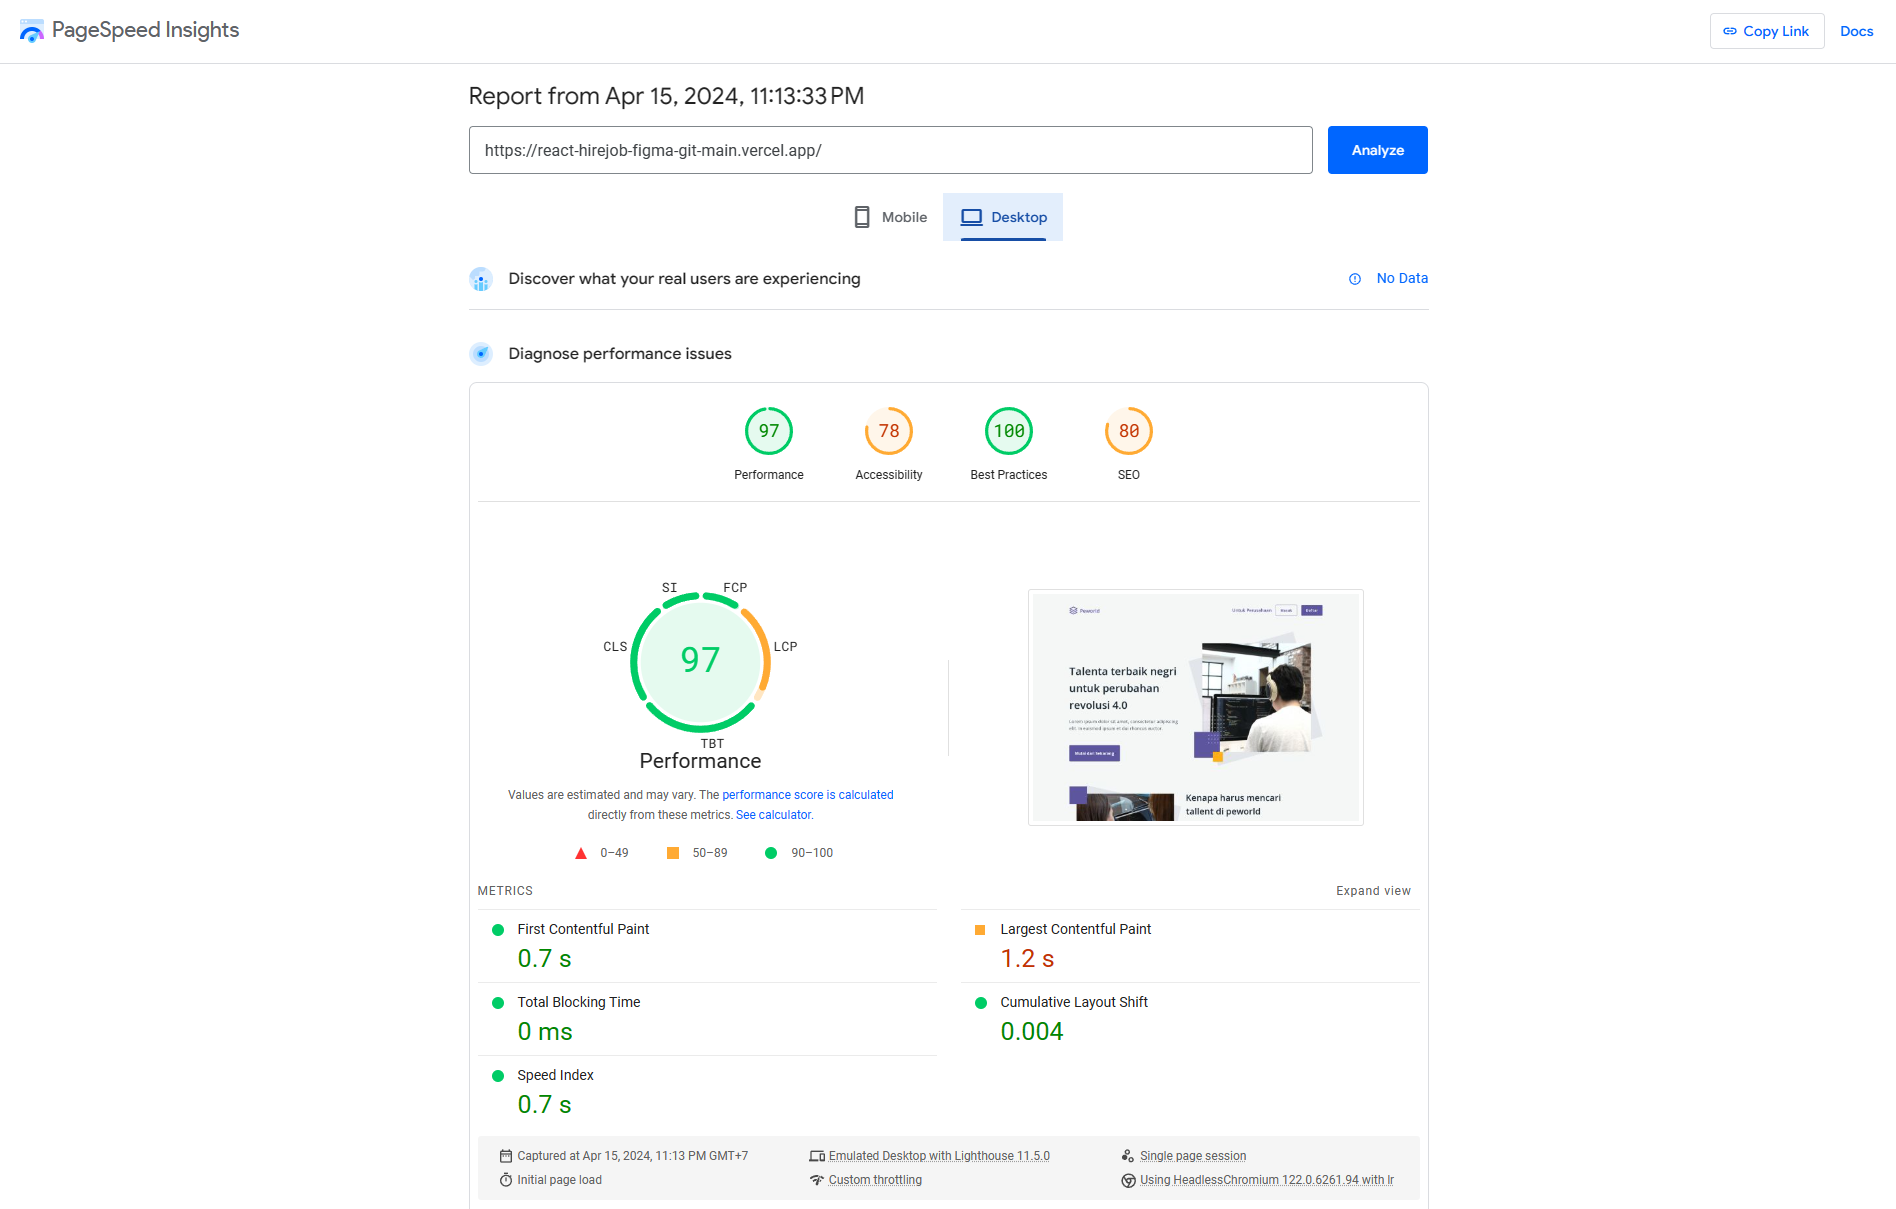
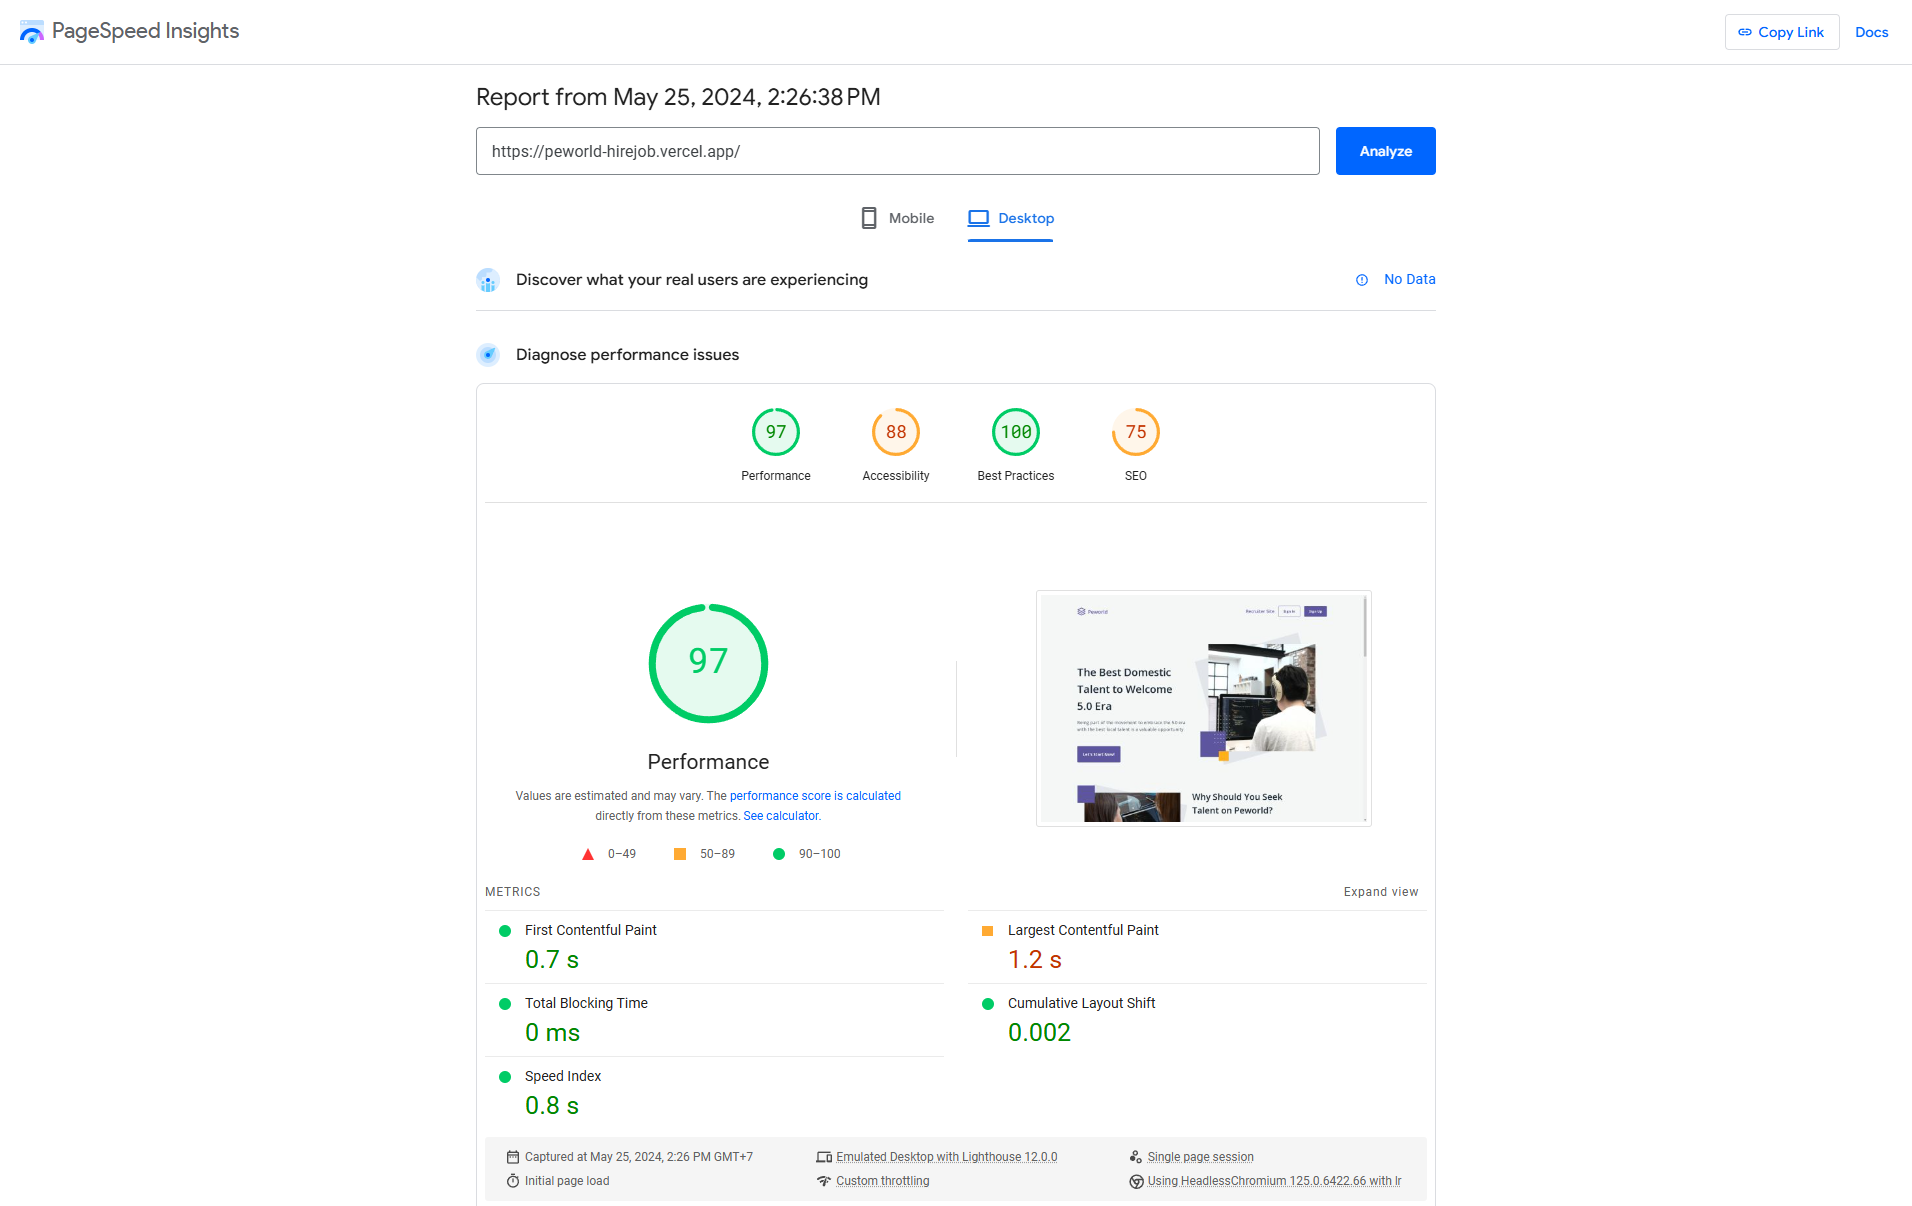
updating README.md

diff --git a/README.md b/README.md
@@ -93,6 +93,8 @@ There are 7 pages that I working in progress.
 
 According to PageSpeed Insights, the desktop performance scored 97%, with minor issues regarding LCP. However, the mobile performance, at 52%, is concerning due to significant CLS and LCP issues. The absence of loading indicators on the website may be contributing to this discrepancy. To address this, I propose implementing more loading indicators for images and other elements to enhance performance in future updates. Despite these challenges, the website remains functional on both mobile and desktop platforms.
 
+> UPDATED : After updates, mobile performance saw a significant improvement, reaching 90% from the initial 52%, thereby reducing CLS and LCP issues considerably. However, there are still shortcomings in SEO, specifically 'Document does not have a meta description' and 'Image elements do not have [alt] attributes'. Additionally, the desktop performance remains the same at 97%, with the same issues as the mobile performance.
+
 ![Performance Mobile](./public/screenshot/Performance-Mobile.png)
 ![Performance Desktop](./public/screenshot/Performance-Desktop.png)
 
